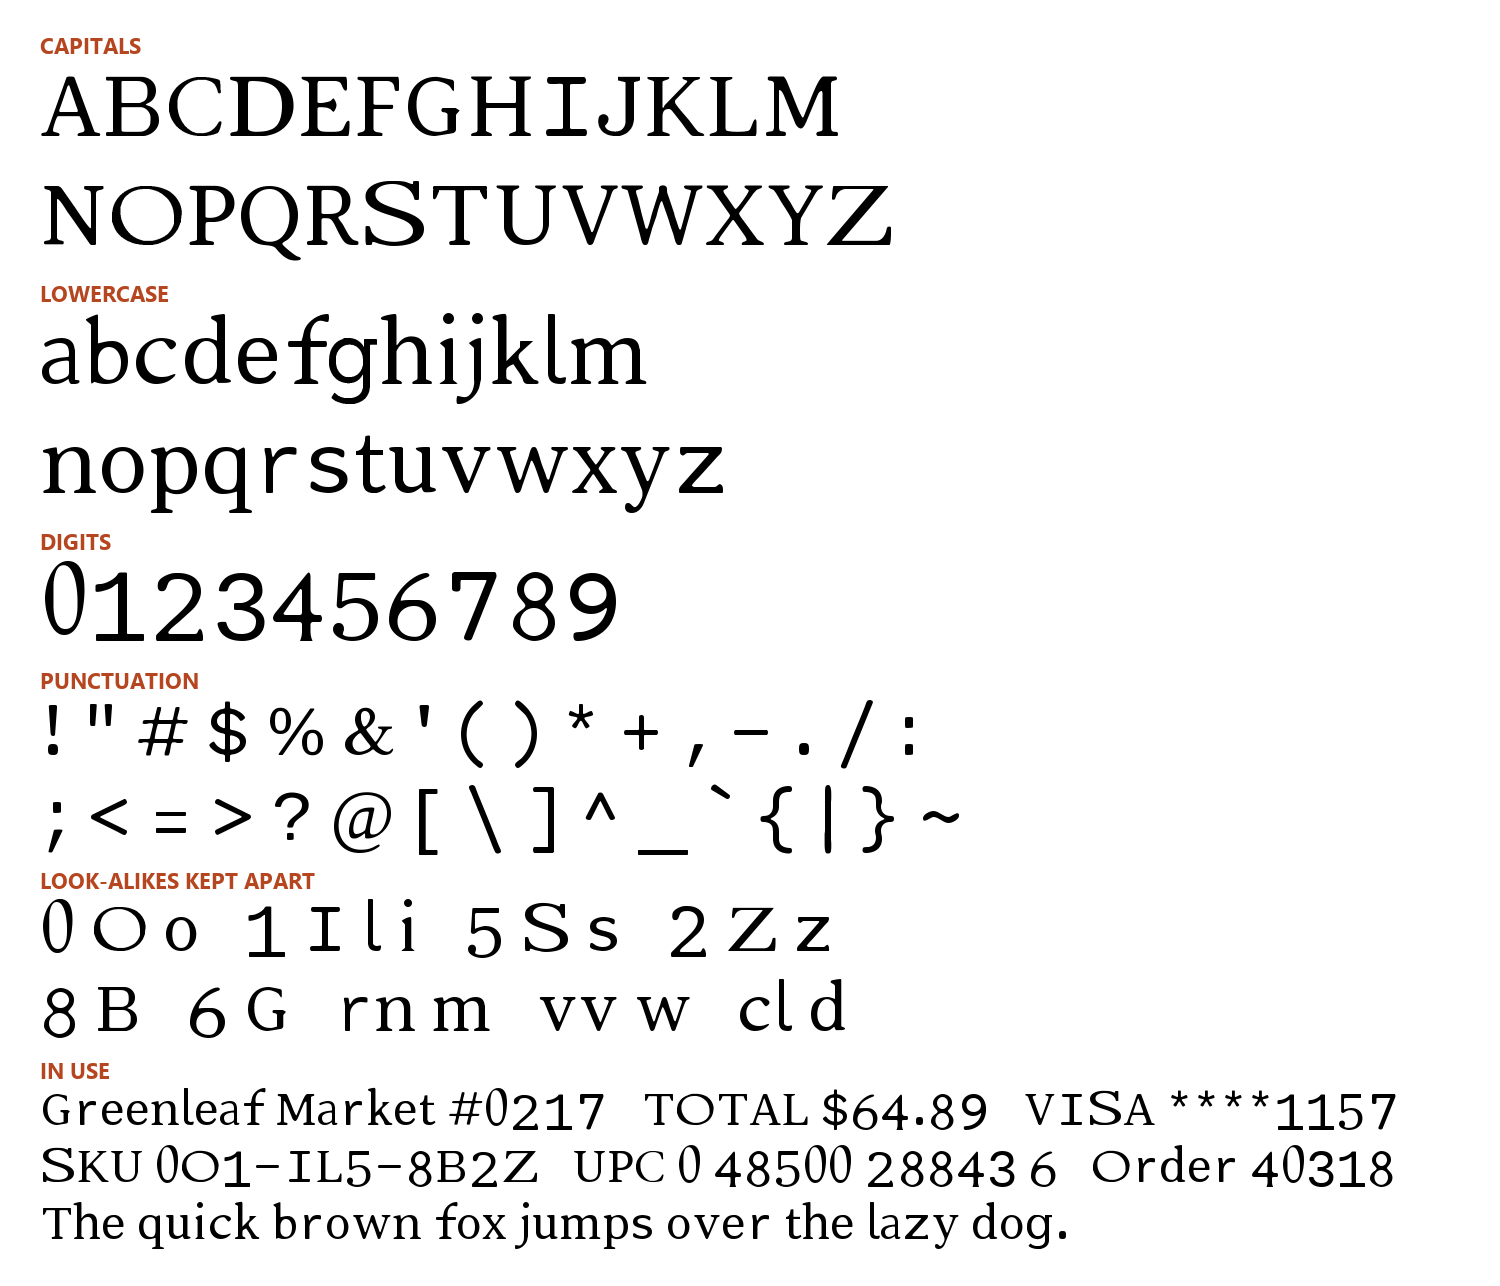
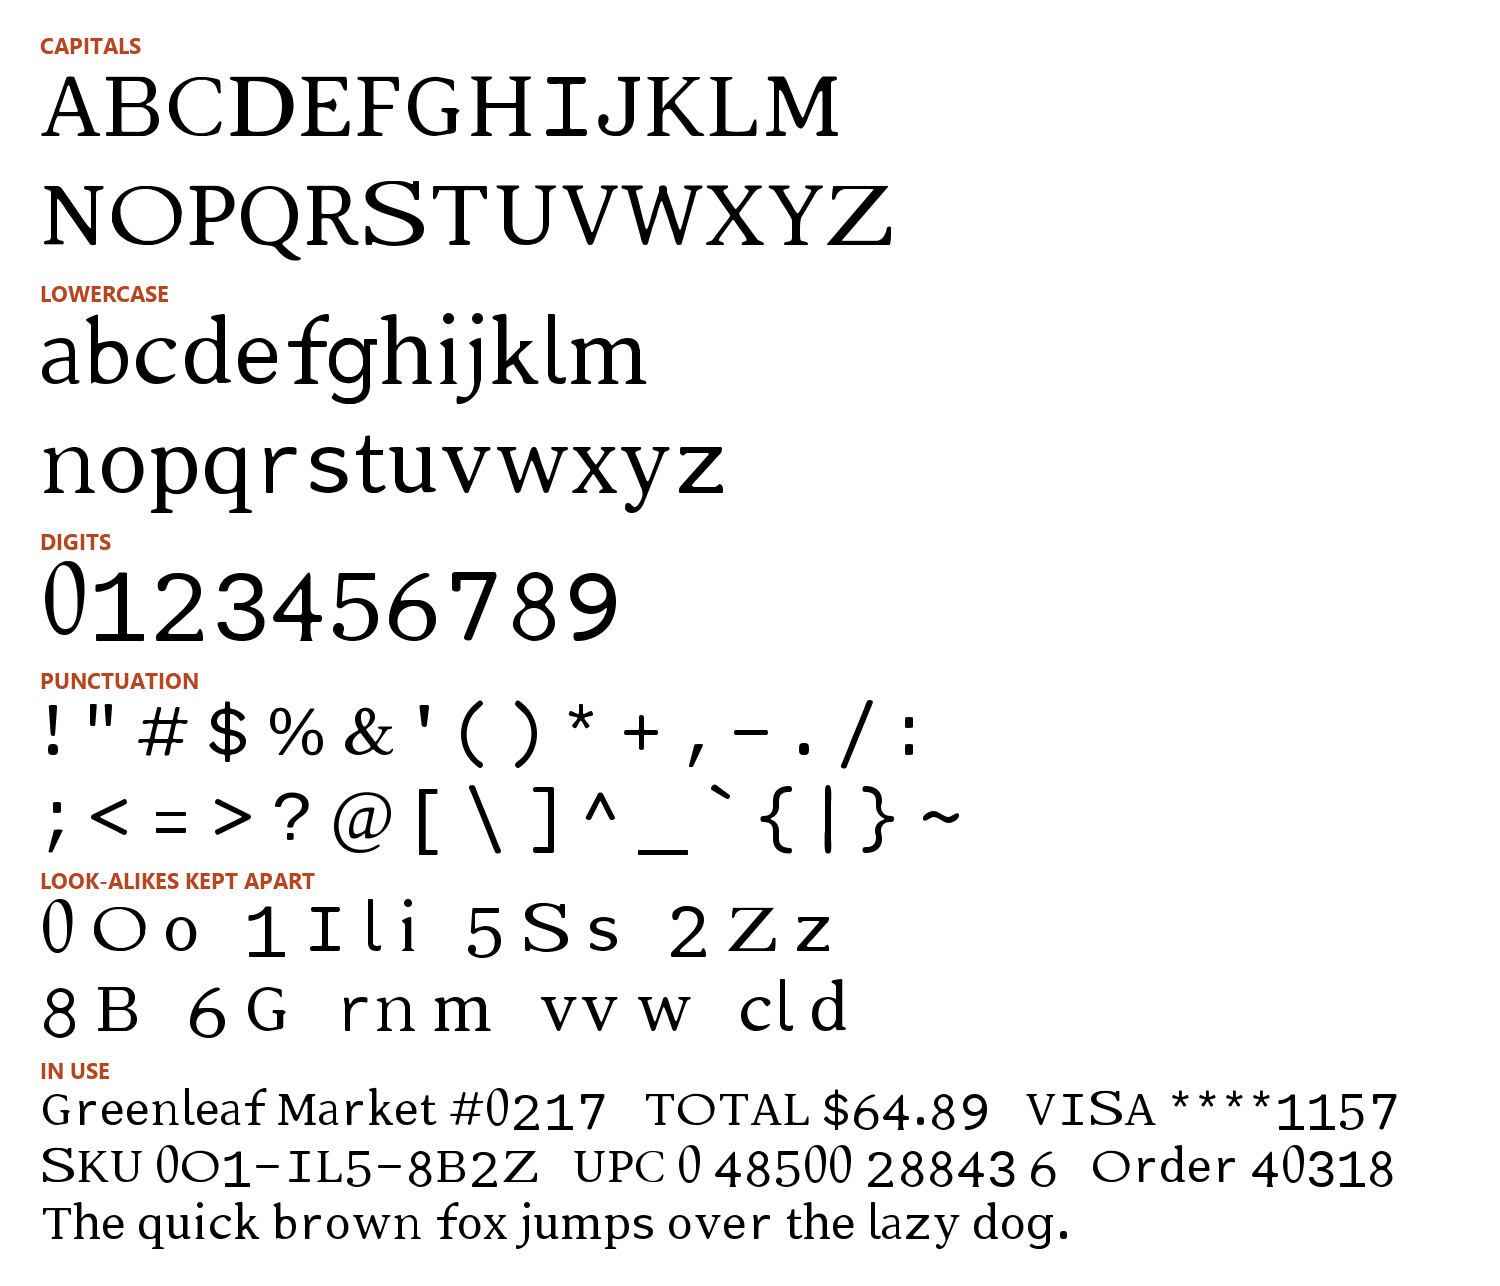
v0.97: thicker e crossbar, lighter n (James); README pictures refreshed

diff --git a/DECISIONS.md b/DECISIONS.md
@@ -977,3 +977,7 @@ e crossbar test (`e_bar_eval.csv`, paragraphs / codes, five conditions): bar 70 
 James: "something is still weird at the top of the e" (flat, kinked outer top; small point at the top of the eye). Outer top redrawn as two elliptical quarters from the left and right sides to the top (300, 542); the eye as a clean arch with rounded bottom corners (`scripts/nodes/e_bar.json`). Full check of the bar-70 e (before the top cleanup, outline-only) across 8 conditions (`e70_check.csv`): paragraphs average 6.68 -> 6.58 (low-res 5.06 -> 4.56, smudged 3.65 -> 3.61, damaged 6.33 -> 6.24, heavy 29.85 -> 29.73, the rest within 0.03), codes 11.42 -> 11.45 (noise; few e's), numbers identical. Picture `scratch/e70_results.png`.
 James: "did we fix the n? can we?" n variants on the v0.97 candidate (new e): narrower n (right half moved 50 units left, stems kept; `scripts/n_variants.py`), lighter n (stems thinned 10 units from the sides), Courier Prime's n (diagnostic: shape vs weight). Test on paragraphs and codes, clean / low-res / smudged / damaged (`n_eval.csv`), running.
 n test (`n_eval.csv`, Text fonts with the new e), paragraphs clean / low-res / smudged / damaged, codes average: now 2.33 / 4.67 / 3.66 / 6.36, 9.37; lighter n 2.17 / 4.88 / 3.23 / 6.29, 9.28; Courier Prime's n 2.38 / 4.91 / 3.30 / 6.36, 9.32; narrower n 2.17 / 4.83 / 3.59 / 6.99, 9.43. The lighter n fixes the smudge (3.23 vs Courier Prime 3.27 in the README benchmark) and helps clean paragraphs and codes; low-res paragraphs 4.67 -> 4.88 (Courier Prime 4.92). Courier Prime's heavier n also fixes it, so shape matters too, not only weight. Picture `scratch/n_light_results.png`.
+
+### v0.97 adopted (2026-10-13)
+
+James: yes. Exported as version 0.97 (`scratch/export_v097.sh`; v0.96 in `out/fonts/intermediate/*-v096.ttf`): v0.96 + e with a 70-unit crossbar and clean top and eye + lighter n (stems 10 units thinner each side) (`~/maxocr-work/keep/MaxOCR-Text-v097.ttf`). README benchmark rows for MaxOCR re-measured (v0.96 rows kept in `out/report/readme_bench_maxocr_v096.csv`); README pictures refreshed.

diff --git a/README.md b/README.md
@@ -6,7 +6,7 @@ but every character is shaped and spaced so that OCR engines confuse it with as 
 
 ![MaxOCR character set](docs/specimen.png)
 
-**Version 0.96.** 95 characters: A–Z, a–z, 0–9, space and all 32 ASCII punctuation marks.
+**Version 0.97.** 95 characters: A–Z, a–z, 0–9, space and all 32 ASCII punctuation marks.
 
 ## Which file to use
 
